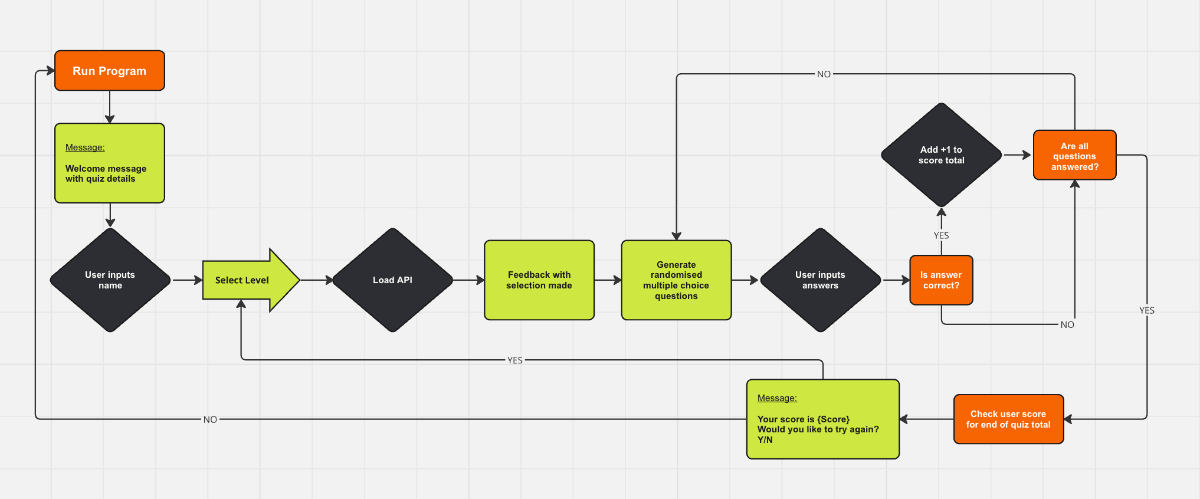
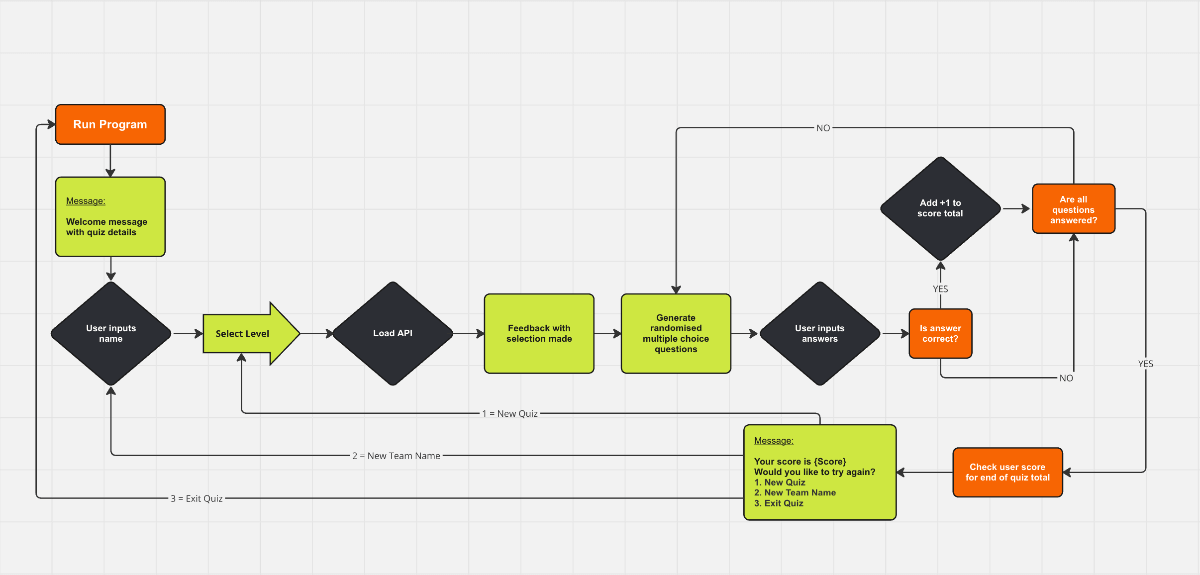
Modify and spellcheck ReadMe

Changed region(s): [[0.0308, 0.0902, 0.9558, 0.6613], [0.0308, 0.6914, 0.9558, 0.9319], [0.5858, 0.1202, 0.8942, 0.1503]]

diff --git a/README.md b/README.md
@@ -1,6 +1,6 @@
 # Risky Quizness
 
-It all started with a pub quiz night, it was loud and the screens were small. Our team couldn't see the quiz questions given the position of our table and often we missed out on hearing the questions correctly. When it came to marking our pen and paper game sheets, we relied on opposing teams to accuratley check our answers with what the quiz master had shouted out and hoped we had scored enough points to win a prize at the end of the night. It got me thinking about how I would improve this experience to make it easier for the players within each team while enjoying the pub atmosphere.
+It all started with a pub quiz night, it was loud and the screens were small. Our team couldn't see the quiz questions, given the position of our table and often we missed out on hearing the questions correctly. When it came to marking our pen and paper game sheets, we relied on opposing teams to accurately check our answers with what the quiz master had shouted out and hoped we had scored enough points to win a prize at the end of the night. It got me thinking about how I would improve this experience to make it easier for the players within each team while enjoying the pub atmosphere.
 
 This app has been developed as a prototype for a company called Risky Quizness, who host pub quiz games and are looking to go digital with their game nights. The idea is to allow each team to independently keep track of their questions, answers and score tally as the night progresses, and in turn streamlining the final score system for team competition progression and end of night prizes. With this prototype, Risky Quizness will be able to rotate their quiz questions automatically by fetching randomised themed questions for each round played. 
 
@@ -8,102 +8,101 @@ Live Link: https://risky-quizness-c9032af3d3e3.herokuapp.com/
 
 ![Responsive Mock-up](assets/images/responsive-mockup.webp)
 
-
 ## Game Scope
 
 ### Overview
 
-- The prototype app is based on film trivia with all questions fetched from the API related to the film industry theme.
-- Each team has to complete answering 10 multiple choice questions, with each question immediately validated.
-- As the teams progress through the quiestions and levels, their points / score is kept track of. 
-- When teams have completed answering all questions their final score is presented to them.
-- Players then have the option to continue playing, play as a new team or finish their quiz journey.
+- The prototype app is based on film trivia with all questions fetched from the API related to the film industry theme
+- Each team has to complete answering 10 multiple choice questions, with each question immediately validated
+- As the teams progress through the questions and levels, their points / score is kept track of
+- When teams have completed answering all questions their final score is presented to them
+- Players then have the option to continue playing, play as a new team or finish their quiz journey
 
 ### How to play
 
-- Each team is welcomed to the main screen where they are promted to enter their team name.
-- After their name has been added to the system, they are asked to select their difficulty level based on their theme knowledge.
-  - Difficulty levels are presented as 1 = Easy, 2 = Medium and 3 = Hard.
-  - Players to input numbers 1,2 or 3 based on their decision on level to procceed with.
-- The players will then start with answering Question 1 fetched from selected level chosen.
-  - They will be presented with 4 possible answers to choose from in a multiple choice form.
-  - Players will then input an option 1, 2, 3 or 4.
-- When teams have answered their question, their choice is immediately validated as correct or incorrect.
-  - If correct, a +1 counter is added to the teams score for end of game tally.
-- Players need to answer all 10 questions to reach the end of the quiz.
-- After Question 10 has been answered, the team score total is presented out of 10.
+- Each team is welcomed to the main screen where they are prompted to enter their team name
+- After their name has been added to the system, they are asked to select their difficulty level based on their theme knowledge:
+  - Difficulty levels are presented as 1 = Easy, 2 = Medium and 3 = Hard
+  - Players to input numbers 1, 2 or 3 based on their decision on level to proceed with
+- The players will then start with answering 'Question 1' fetched from selected level chosen:
+  - They will be presented with 4 possible answers to choose from in a multiple choice form
+  - Players will then input an option 1, 2, 3 or 4
+- When teams have answered the question, their choice is immediately validated as correct or incorrect:
+  - If correct, a +1 counter is added to the teams score for end of game tally
+- Players need to answer all 10 questions to reach the end of the quiz
+- After Question 10 has been answered, the team score total is presented out of 10
 - Players then have the option to either:
   - 1 = Play again: This allows the players to keep their team name and choose a new difficulty level
   - 2 = New Team: Allows a new team to take over and test their knowledge
-  - 3 = Exit: Let's teams finish their round and exit their game play.
+  - 3 = Exit: Let's teams finish their round and exit their game play
 
 ### Features
 
 __Existing features:__
-- Teams are able to add their names for personalised feedback during quiz.
+- Teams are able to add their names for personalised feedback during quiz
 
   ![Welcome screen](assets/images/welcome.webp) | ![Team Name](assets/images/team-name.webp)
 
-- Based on players knowledge, they are able to select a difficulty level.
-  - Levels are easy, medium and hard which are pulled directly from a loaded API for each difficulty within the theme.
+- Based on players knowledge, they are able to select a difficulty level:
+  - Levels are easy, medium and hard which are pulled directly from a loaded API for each difficulty within the theme
 
   ![Difficulty Level](assets/images/level.webp)
 
-- Questions asked are fetched from a loaded API that has 40 questions within the libabry.
-  - Random shuffle function added to allow for a fresh set of 10 questions with each round played.
-  - This helps with replayability of quiz.
+- Questions asked are fetched from a quiz database that has 40 questions within the library:
+  - Random shuffle function added to allow for a fresh set of 10 questions with each round played:
+    - This helps with replayability of quiz and challenge teams with every quiz level
+  - Longer questions fetched from the API causes a line break, often hyphenating words into the next line:
+    - This is a result of the API data loaded within app template, which will be modified in later versions to accommodate line breaks when updating interface while hosting and controlling a Risky Quizness database
 
   ![Questions](assets/images/questions.webp)
 
-- Keep track of questions and answers as players progress.
+- Keep track of questions and answers as players progress:
   - If correct, the players are given a message "Correct {team_name}!"
   - If incorrect, the players are presented with the correct answer "Oops! The correct answer is: {correct_answer}"
 
   ![Correct Answer](assets/images/correct-answer.webp) | ![Incorrect Answer](assets/images/incorrect-answer.webp)
 
-- After each round of 10 questions the team is presented with their total score tally out of 10.
-  - While players answer each question, a +1 counter is added to towards their final total.
-- Players are given feedback based on their final score average.
+- After each round of 10 questions the team is presented with their total score tally out of 10:
+  - While players answer each question, a +1 counter is added towards their final total
+- Players are given feedback based on their final score average:
   - If score is less than 5, "Better luck next time! Not quite the film buff just yet."
   - If score between 5 and 7 "Not bad, you could brush up on your film knowledge."
   - If score greater than and equal to 8, "Right down to Quizness... you're a true film buff!"
   
   ![Score Feedback A](assets/images/score-a.webp) | ![Score Feedback B](assets/images/score-b.webp) | ![Score Feedback C](assets/images/score-c.webp)
 
-- Team is given the option after quiz end to replay as their existing team name, allow a new team name to be entered for a new game, or exit quiz app.
-  - If New Quiz, team starts a new quiz round as exisiting team name
-    - redirects user to select a difficulty level if they want to more of a challenge.
-  - If New Team, user is redirected to main welcome screen to start a new journey.
-  - If Exit, the app stops and user recieves feedback to confirm end of quiz journey.
+- Team is given the option after quiz end to replay as their existing team name, allow a new team name to be entered for a new game, or exit quiz app:
+  - If New Quiz, team starts a new quiz round as existing team name:
+    - redirects user to select a difficulty level if they want to more of a challenge
+  - If New Team, user is redirected to main welcome screen to start a new journey
+  - If Exit, the app stops and user receives feedback to confirm end of quiz journey
 
   ![Exit feedback](assets/images/exit.webp)
 
 - Only valid inputs are accepted during quiz game play:
-  - if player inputs the incorrect value, feedback is given to prompt a valid input with accepted options allowed.
+  - if user inputs the incorrect value, feedback is given to prompt a valid input with accepted options allowed
 
   ![Input Validation](assets/images/input-error.webp)
 
 __Future Features__
-- Adding more trivia theme options, allowing players to choose their prefered trivia theme nights.
-- Build and continuously update a database of questions to keep up to date with themes.
-- Round progression with levelling up of theme difficulty.
-- Link a database that stores and updates automatically as all team names and scores are collected per pub quiz attended.
-  - With this Risky Quizness can gather informatioon of their top teams around the various pubs.
-    - Hold an ultimate quiz battle with top teams competing to take the top spot within their area.
-- Create another version of the app that allows users to host their own at home trivia nights.
+- Adding more trivia theme options, allowing players to choose their preferred trivia theme nights
+- Build and continuously update a database of questions to keep up to date with themes
+- Round progression with levelling up of theme difficulty
+- Link a database that stores and updates automatically as all team names and scores are collected per pub quiz attended
+  - With this, Risky Quizness can gather information of their top teams around the various pubs:
+    - Hold an ultimate quiz battle with top teams competing to take the top spot within their area
+- Create another version of the app that allows users to host their own, at home trivia nights
   - Downloadable app to smart devices that will:
-    - include a quiz master platform for the host to manage teams and gamplay
-    - players arena where teams have access similar to the prototyp platform to interact and answer questions.
-    - include mini quiz games for single players on the move to brush up on their quiz theme knowledge.
-- Bring in a few animated screens between rounds and questions for interactive fun during quiz game game play.
-
+    - include a quiz master platform for the host to manage teams and game play
+    - players arena where teams have access similar to the prototype platform to interact and answer questions
+    - include mini quiz games for single players on the move to brush up on their quiz theme knowledge
+- Bring in a few animated screens between rounds and questions for interactive fun during quiz game play
 
 ## Solution Model
 
 ### Flowchart
 
 ![Flowchart](assets/images/flowchart.webp)
-
 
 ## Technologies Used
 
@@ -119,21 +118,29 @@ __Future Features__
   - Within this platform, it allowed me to generate specific API links according to trivia theme and difficulty.
     - Open Trivia Database: https://opentdb.com/
 
+- Flowchart diagram created using Miro app:
+  - Miro: https://miro.com/
+    
+- Image assets reduced with online platforms:
+  - TinyPNG: https://tinypng.com/
+  - XConvert: https://www.xconvert.com/
+
 - Assisted problem solving sites:
   - Python API Tutorial: https://www.dataquest.io/blog/python-api-tutorial/
   - Converting the characters in strings to HTML: https://stackoverflow.com/questions/2087370/decode-html-entities-in-python-string
   - Random shuffle of answers: https://www.geeksforgeeks.org/random-shuffle-function-in-python/
   - Retain team_name: https://stackoverflow.com/questions/47840794/none-in-python
 
-
 ## Testing 
+
+- I have manually tested the Risky Quizness app by checking the following:
 
 | TEST INPUT | CORRECT OUTCOME | MEET REQUIREMENTS |
 |:---:|:---:|:---:|
 | Load welcome message | Main page loads correctly | PASS |
 | Input team name | User input is returned as Title Case & trailing whitespaces removed | PASS |
 | Input difficulty option | User can only input 1, 2, or 3 & trailing whitespaces removed. INVALID INPUT! is prompted & user is asked to input again | PASS |
-| Load question 1 | After difficulty level selected, user is prompted question 1 | PASS |
+| Load 'Question 1' | After difficulty level selected, user is prompted 'Question 1', after answered, new question prompted | PASS |
 | Answer input validation | User can only input 1, 2, 3 or 4 & trailing whitespaces removed. INVALID INPUT! is prompted & user is asked to input again | PASS |
 | Correct answer feedback | Correctly input answer prompts bold & adds +1 counter to score for final total | PASS |
 | Incorrect answer feedback | Incorrectly input answer prompts what the correct answer actually is & does not add any counters to final score | PASS |
@@ -178,8 +185,8 @@ __Future Features__
 - After adding colorama import, another 'ModuleNotFoundError' presented after deployment:
   - pip3 install colorama stated 'Requirements satisfied' when running to the terminal
   - after pushing a few solutions I realised the requirements.txt file was not updating as it should
-  - by runinning pip list to terminal I was able to see what packages were installed:
-    - 'pip install requests==2.32.2' to reload before runung 'pip3 freeze --local > requirements.txt' to terminal
+  - by running pip list to terminal I was able to see what packages were installed:
+    - 'pip install requests==2.32.2' to reload before running 'pip3 freeze --local > requirements.txt' to terminal
   - ran pip list to terminal again and both packages were now successfully installed
   - Deployed newly pushed updated requirements, and app loaded successfully with colourama functioning
 
@@ -190,7 +197,6 @@ __Future Features__
 - No unfixed bugs, app running with no errors.
 
 ![Final Result Success](assets/images/heroku-app.webp)
-
 
 ## Deployment
 
@@ -222,7 +228,7 @@ __Future Features__
   - The project is now created as a local clone
 
 ### Version Control
-- The quiz was created using Gitpod editor and pushed to Github to the remote repository 'RiskyQuizness'
+- Risky Quizness was created using Gitpod editor and pushed to Github to the remote repository 'RiskyQuizness'
 - Git commands were used throughout the development to push the code to the remote repository
 - The following git commands were used:
   - git add .  to add the files to the staging area before being committed
@@ -232,9 +238,9 @@ __Future Features__
   - add loaded packages to requirements.txt file for Heroku:
     - run, pip3 freeze > requirements.txt, to terminal
 
-
 ## Credits 
 
-- Slack channel peers for their feedback with questions and taking the time to look at Risky Quizness with fresh eyes
+- Slack channel peers for their feedback with questions asked
 - My mentor for the support and knowledge shared to keeping prototype simple and clean
 - Tutor Assist for the support with getting Heroku and Github version to communicate with app deployment
+
